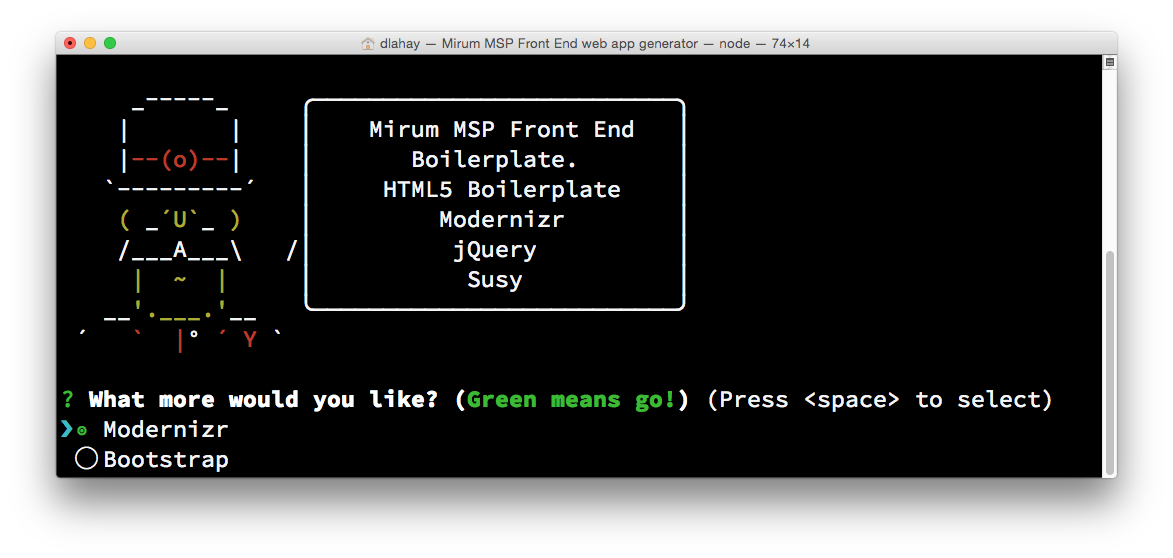
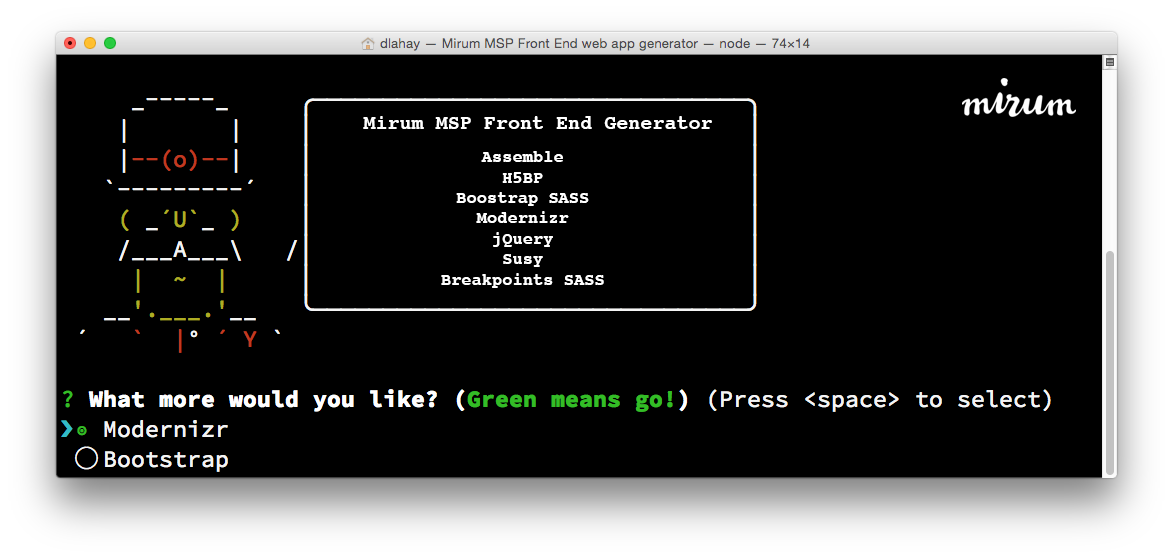
Added in new welcome message, updated screenshot

diff --git a/app/index.js b/app/index.js
@@ -57,7 +57,7 @@ module.exports = generators.Base.extend({
         var done = this.async();
 
         if (!this.options['skip-welcome-message']) {
-            this.log(yosay('Mirum MSP Front End Boilerplate.\nHTML5 Boilerplate\nModernizr\njQuery\nSusy'));
+            this.log(yosay('Mirum MSP Front End Generator.\nAssemble\nH5BP\nModernizr\njQuery\nSusy'));
         }
 
         var prompts = [{
